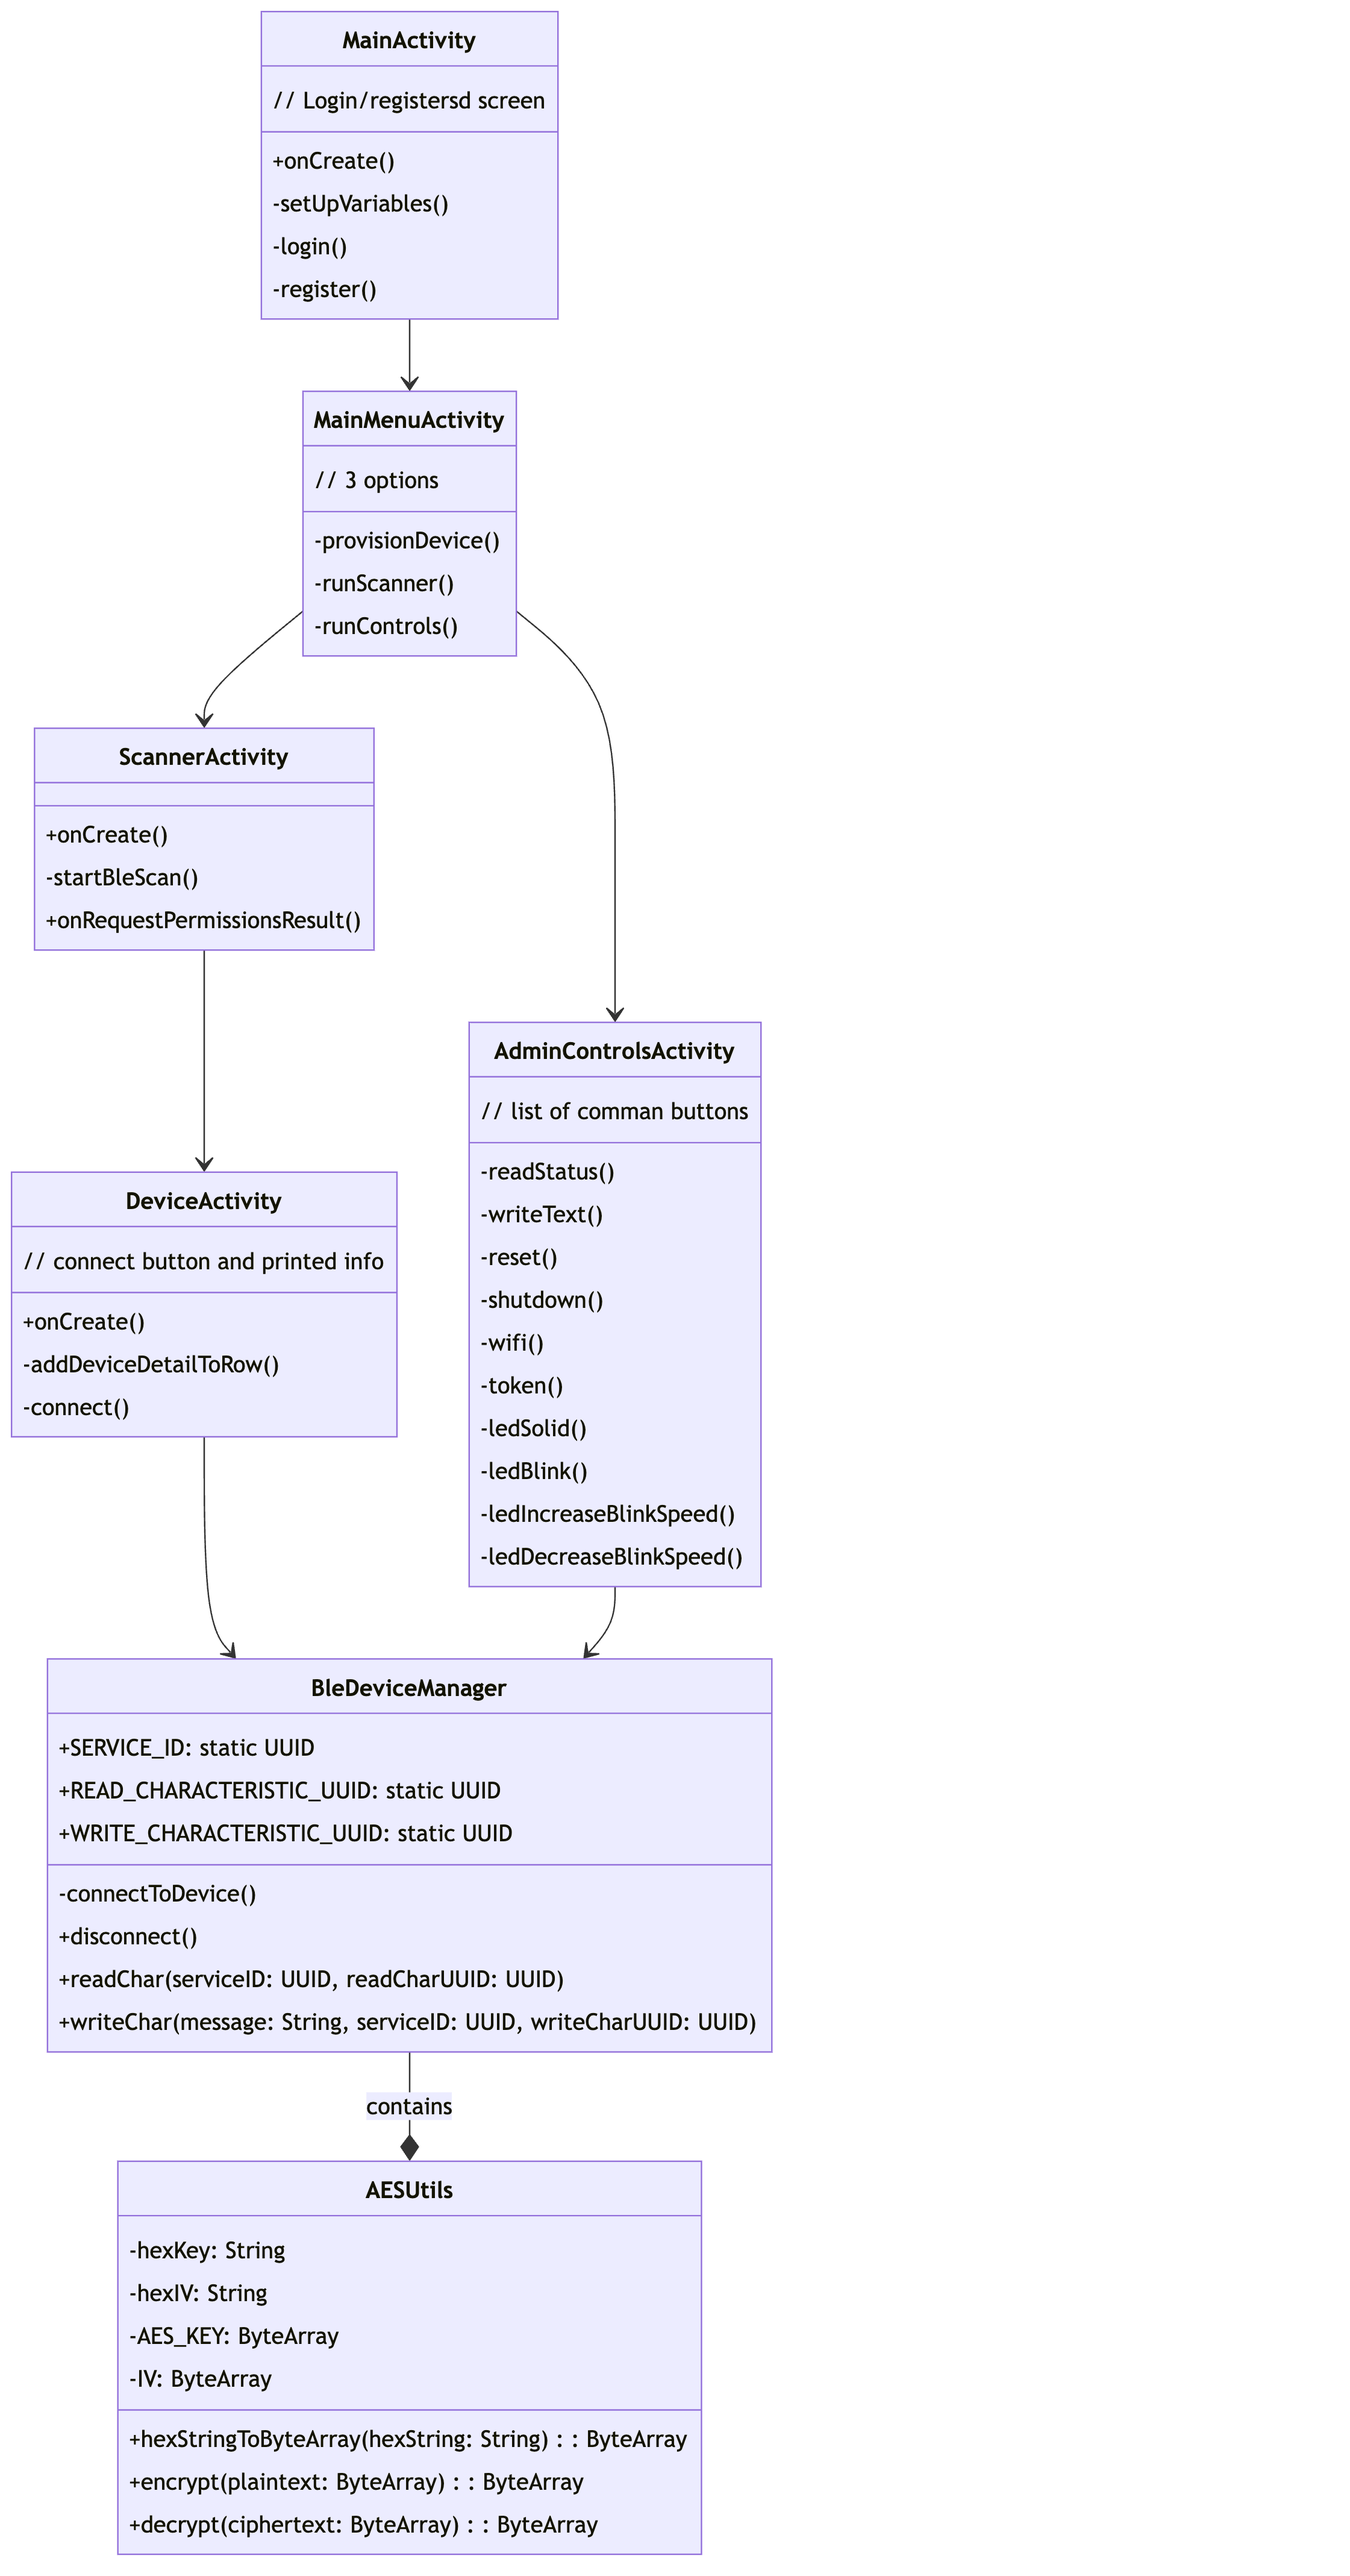
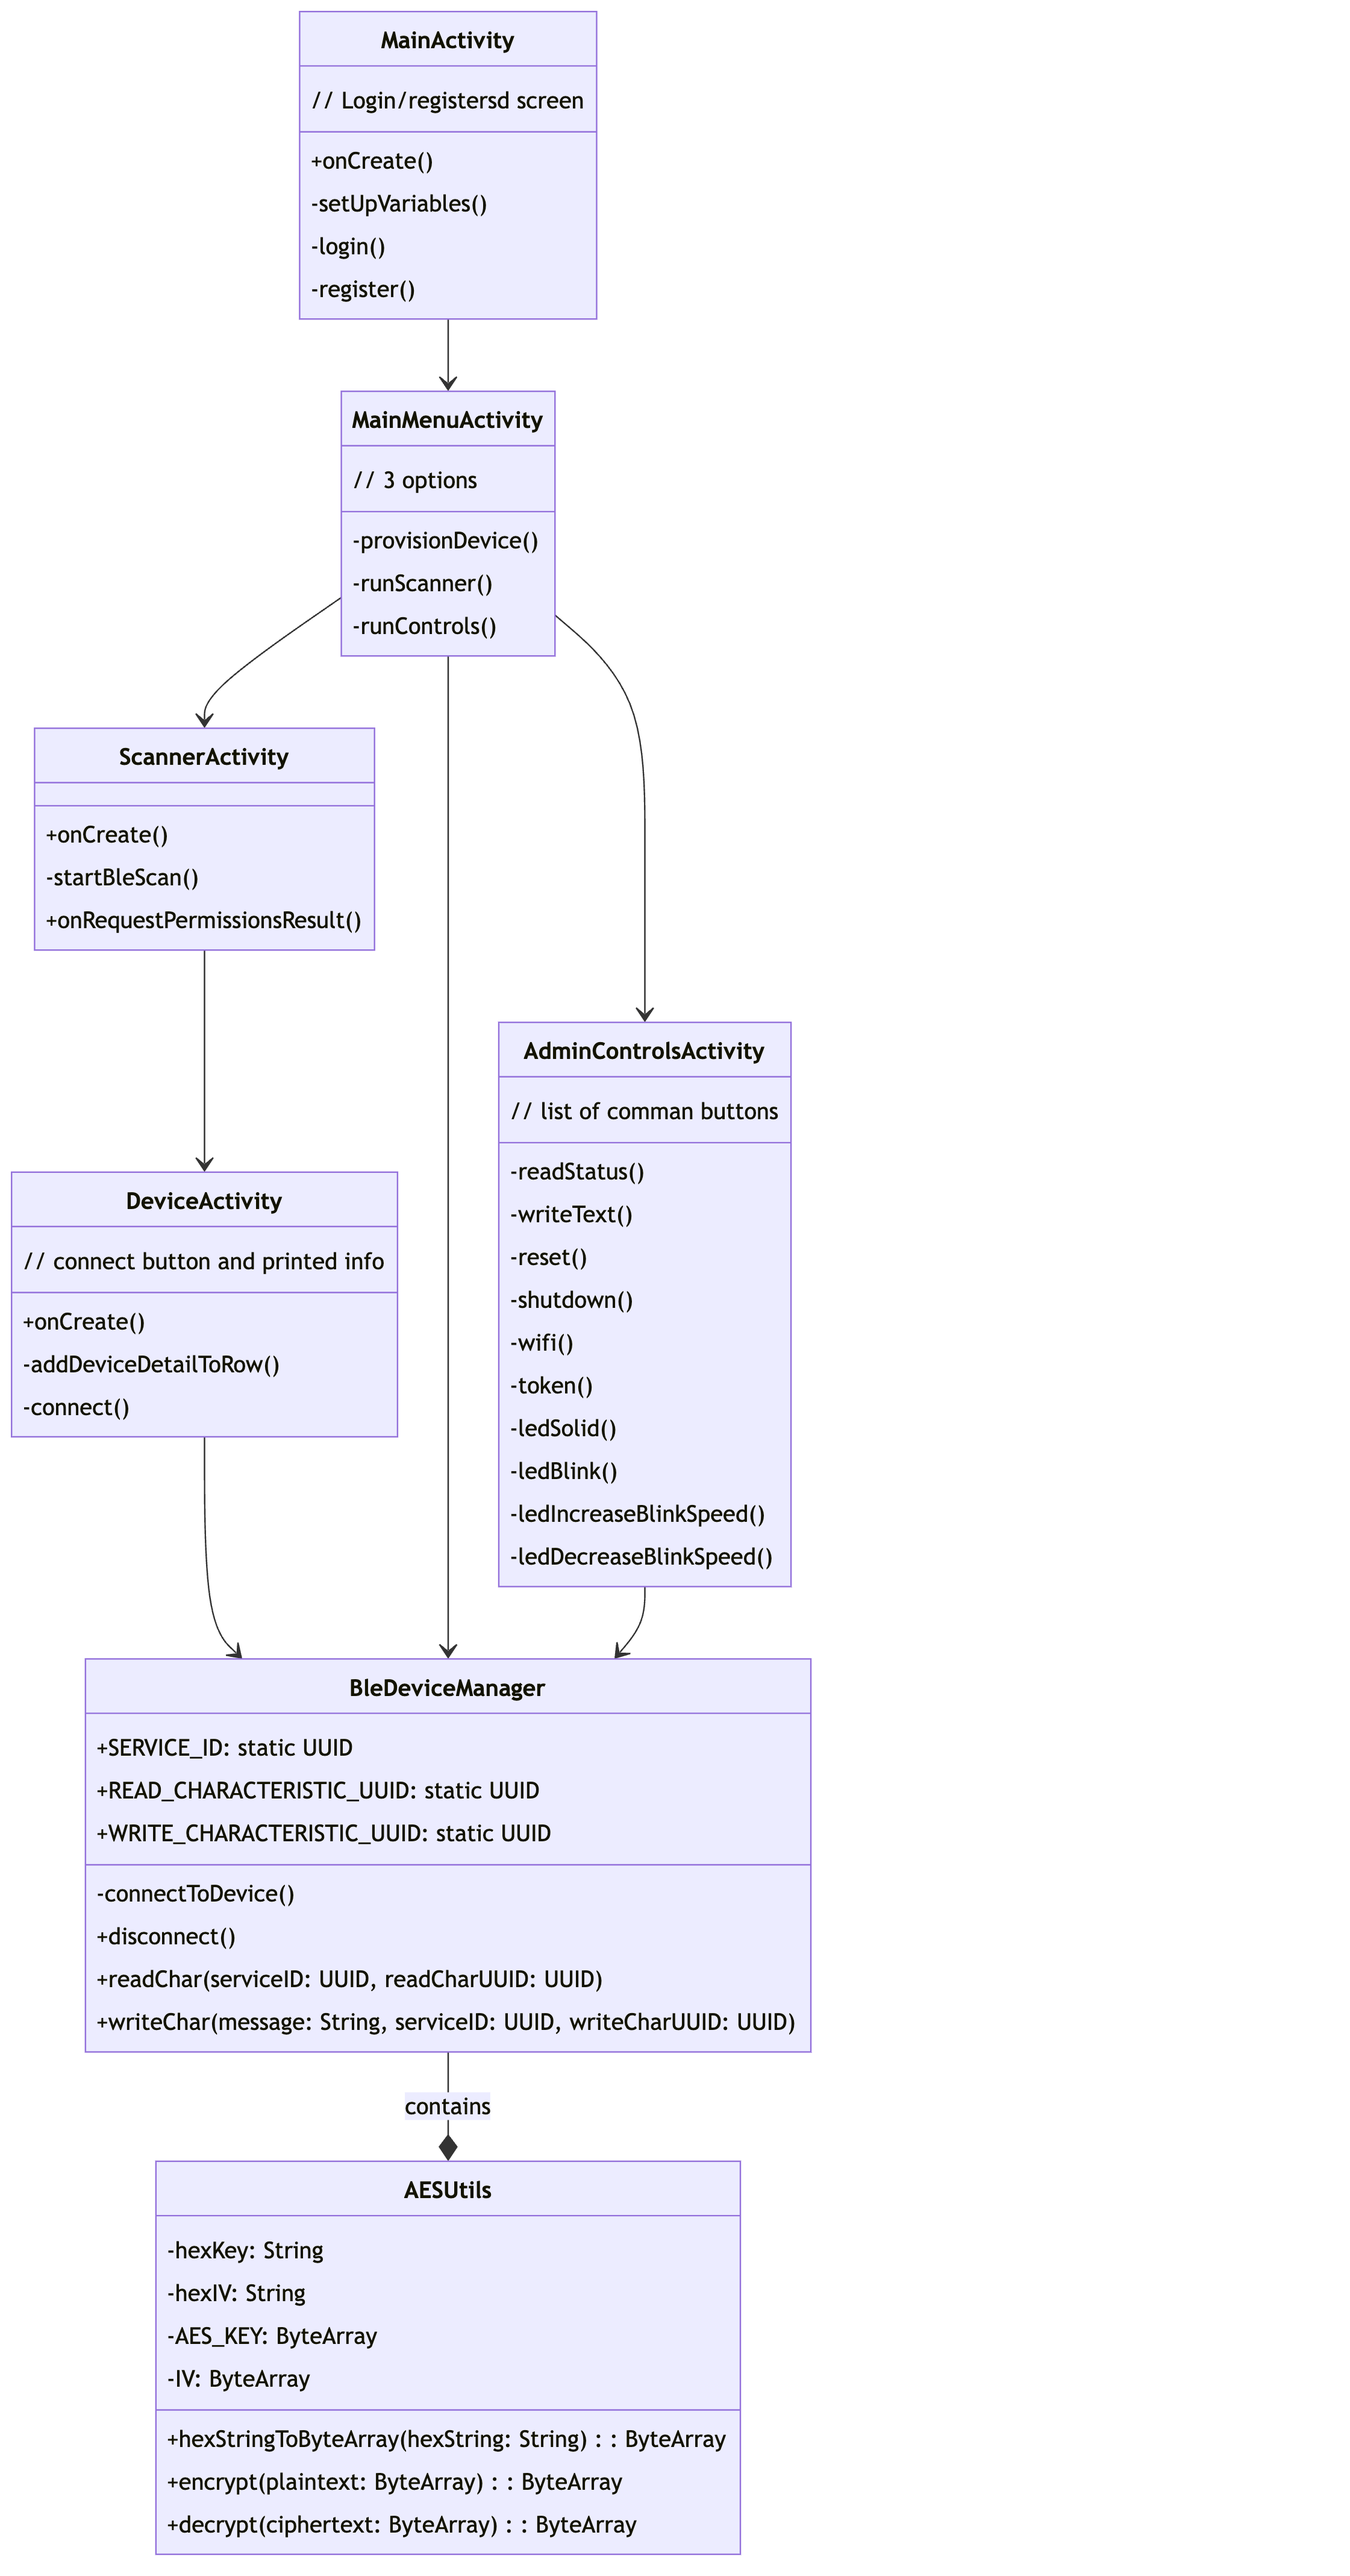
fix diagram

diff --git a/app/src/main/java/com/example/safepiconnect/DeviceActivity.kt b/app/src/main/java/com/example/safepiconnect/DeviceActivity.kt
@@ -46,13 +46,7 @@ class DeviceActivity : AppCompatActivity() {
                     bleDeviceManager.readChar(BleDeviceManager.SERVICE_ID, BleDeviceManager.READ_CHARACTERISTIC_UUID)
                     val message = "hey hey hey"
                     bleDeviceManager.writeChar(message, BleDeviceManager.SERVICE_ID, BleDeviceManager.WRITE_CHARACTERISTIC_UUID)
-                    /*List of commands for Tomas:
-                    * wifi SSID password
-                    * reboot
-                    * shutdown
-                    * token lkajsdvoiasudboibsomefaketokenfaksjdfk // this one isn't working yet obviously.
-                    * // we will get some more going for controlling lights on the RPi
-                    * */
+                    // disconnect when done
                     bleDeviceManager.disconnect()
                 }
             }

diff --git a/figures/SafePiConnect-Class-Diagram.md b/figures/SafePiConnect-Class-Diagram.md
@@ -57,11 +57,13 @@ classDiagram
     }
     
     ScannerActivity --> DeviceActivity
-    DeviceActivity --> BleDeviceManager
     MainActivity --> MainMenuActivity
     MainMenuActivity --> ScannerActivity
     MainMenuActivity --> AdminControlsActivity
-    BleDeviceManager --* AESUtils : contains
+    DeviceActivity --> BleDeviceManager
+    MainMenuActivity --> BleDeviceManager
     AdminControlsActivity --> BleDeviceManager
+    BleDeviceManager --* AESUtils : contains
+
 
 ```
